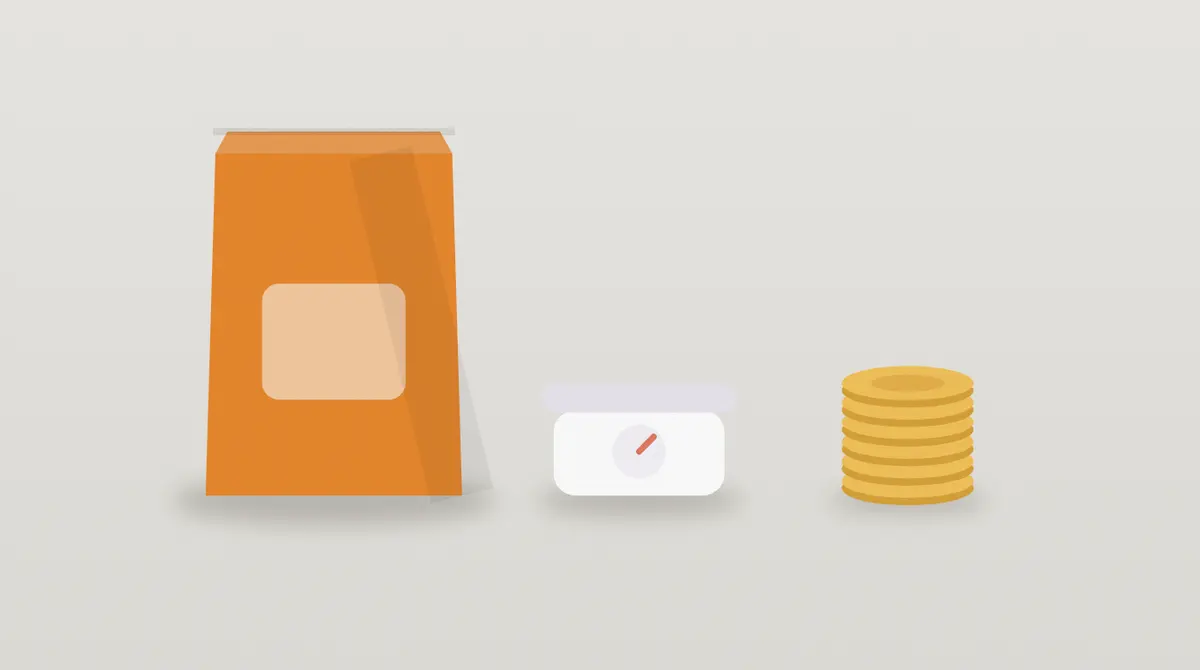
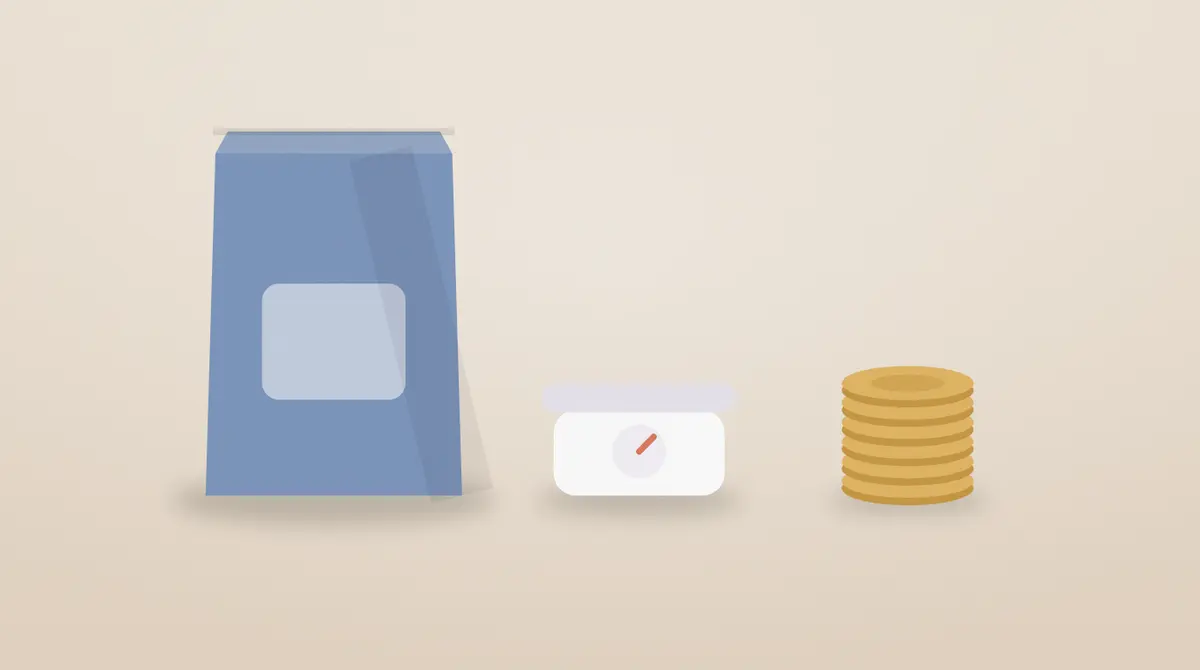
콘텐츠 표지: 강아지 일러스트를 더 차분하고 세련된 파스텔 톤으로 (#53)
Claude-Session: https://claude.ai/code/session_01TcKTz7ncs25YpVZ36UnmVZ

Changed region(s): [[0.1542, 0.1791, 0.4008, 0.7463]]

diff --git a/app.js b/app.js
@@ -1585,7 +1585,7 @@ const COVER_TONE = {
 const COVER_IMG = { 'label-read': 1, 'allergy': 1, 'tear-stain': 1, 'food-types': 1, 'price-gap': 1,
   'senior-vs': 1, 'additives': 1, 'carb-grainfree': 1, 'life-stage': 1, 'price-per-kg': 1, 'weight-manage': 1, 'rx-when': 1 };
 function articleCover(a, cls = '') {
-  const src = a.cover || (COVER_IMG[a.id] ? `assets/covers/${a.id}.webp?v=6` : '');
+  const src = a.cover || (COVER_IMG[a.id] ? `assets/covers/${a.id}.webp?v=7` : '');
   if (/^(https?:|assets\/)/.test(src)) return `<span class="ac ${cls}"><img src="${esc(src)}" alt="" loading="lazy"></span>`;
   const [bg, fg] = COVER_TONE[a.cat] || ['var(--surface)', 'var(--ink70)'];
   return `<span class="ac ${cls}" style="--cbg:${bg};--cfg:${fg}" aria-hidden="true">

diff --git a/index.html b/index.html
@@ -71,7 +71,7 @@ const COUNTRY_KO = {KR:'대한민국',CA:'캐나다',US:'미국',FR:'프랑스',
   DE:'독일',IT:'이탈리아',NL:'네덜란드',BE:'벨기에',GB:'영국',JP:'일본',TH:'태국'};
 const SHOP_KO = {coupang:'쿠팡',brand_official:'공식몰',naver:'네이버',other:'판매처'};
 </script>
-<script src="app.js?v=202610092200"></script>
+<script src="app.js?v=202610092300"></script>
 <script src="native.js?v=202610080838"></script>
 </body>
 </html>
